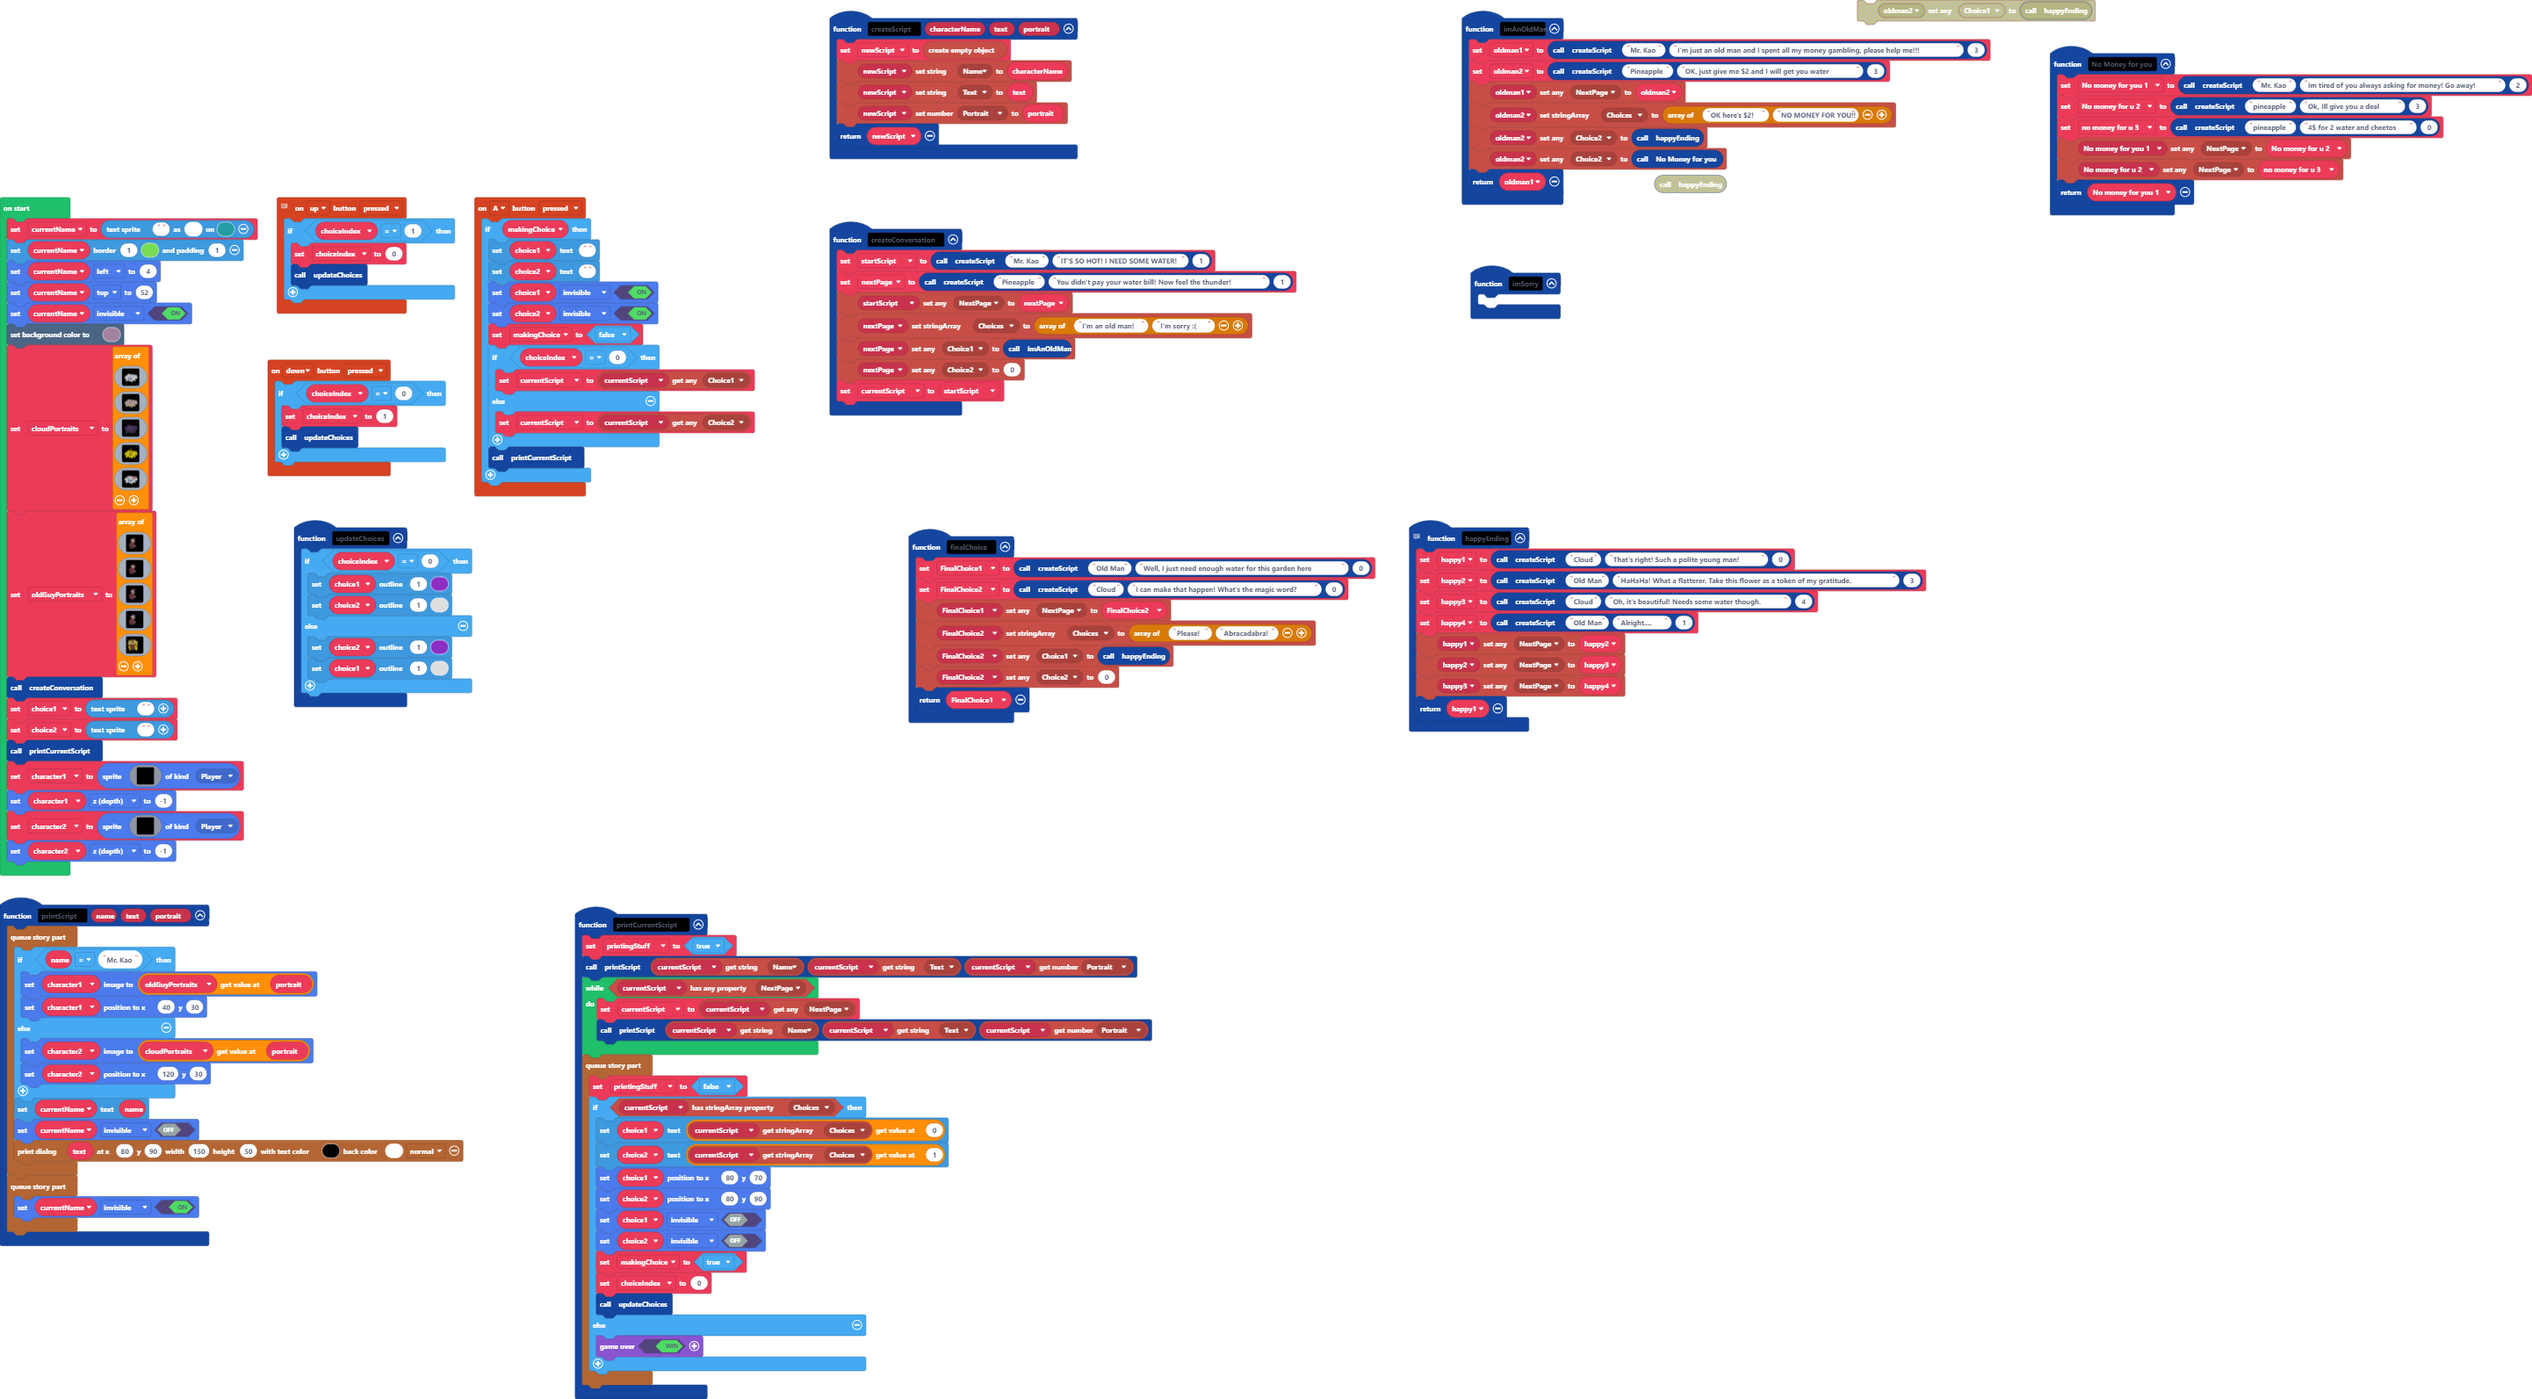
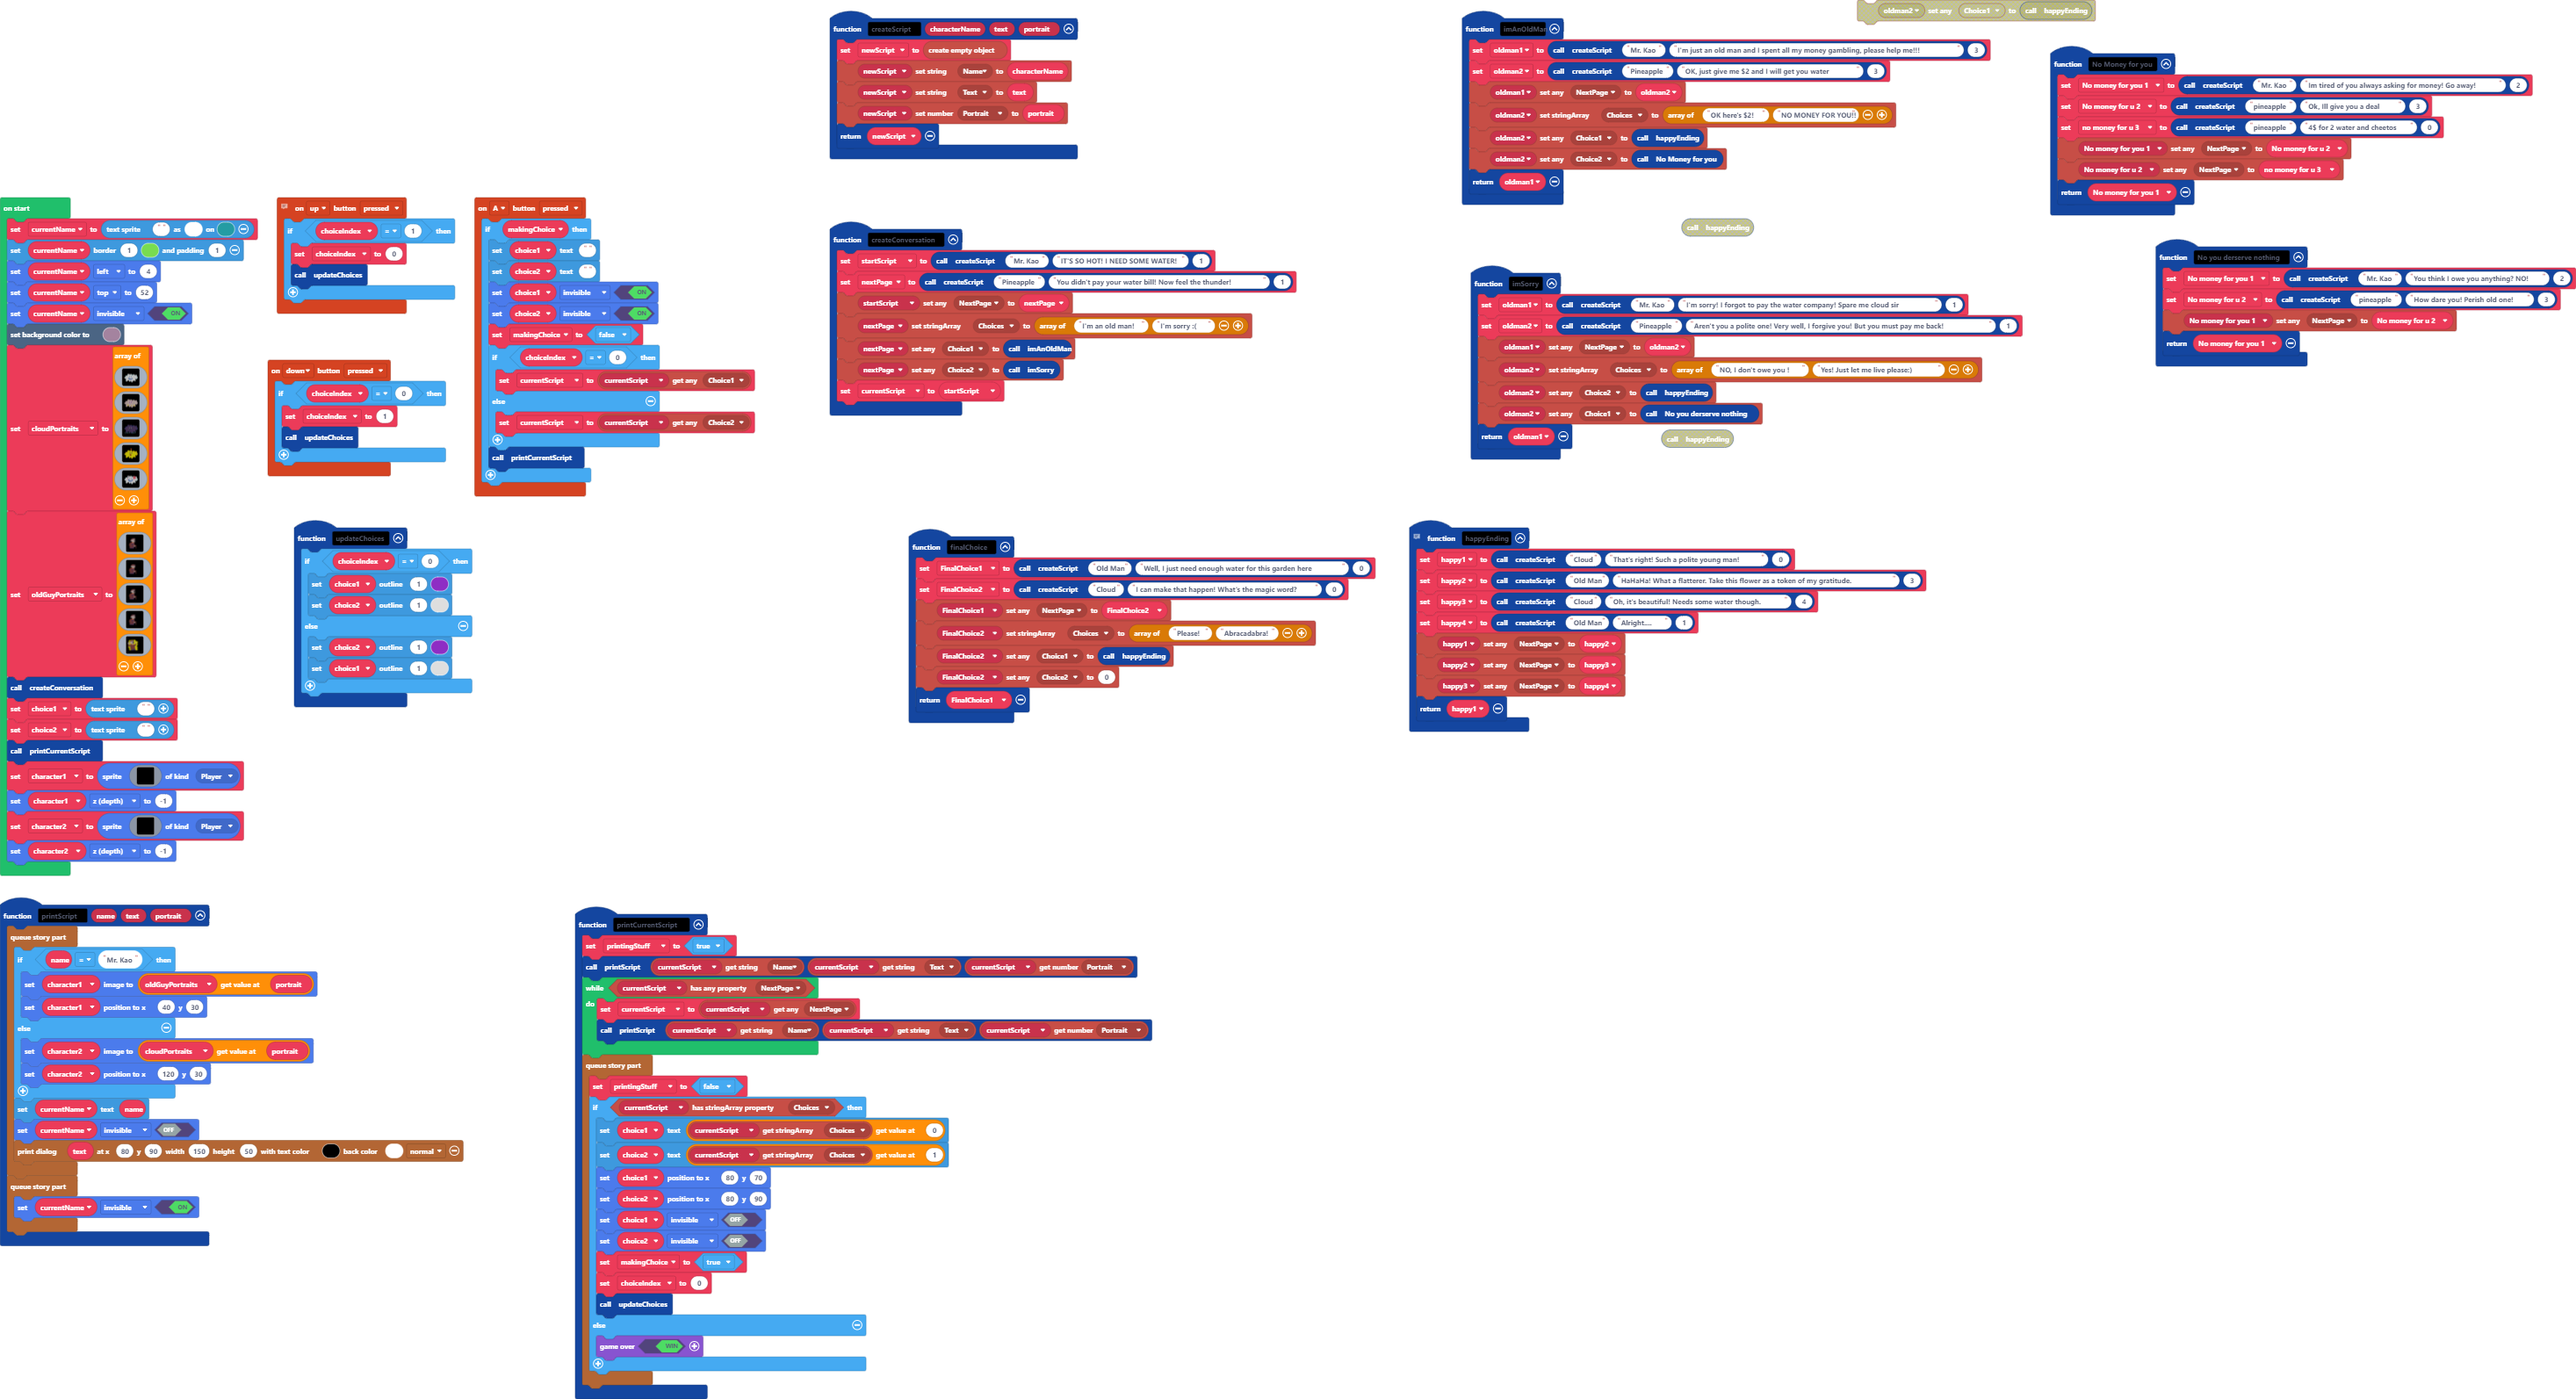
finished im sorry

diff --git a/main.ts b/main.ts
@@ -44,7 +44,13 @@ function happyEnding () {
     return happy1
 }
 function imSorry () {
-	
+    oldman1 = createScript("Mr. Kao", "I'm sorry! I forgot to pay the water company! Spare me cloud sir", 1)
+    oldman2 = createScript("Pineapple", "Aren't you a polite one! Very well, I forgive you! But you must pay me back!", 1)
+    blockObject.setAnyProperty(oldman1, AnyProp.NextPage, oldman2)
+    blockObject.setStringArrayProperty(oldman2, StrArrayProp.Choices, ["NO, I don't owe you !", "Yes! Just let me live please:)"])
+    blockObject.setAnyProperty(oldman2, AnyProp.Choice2, happyEnding())
+    blockObject.setAnyProperty(oldman2, AnyProp.Choice1, No_you_derserve_nothing())
+    return oldman1
 }
 // microsoft/arcade-block-objects
 // 
@@ -61,7 +67,7 @@ function createConversation () {
     blockObject.setAnyProperty(startScript, AnyProp.NextPage, nextPage)
     blockObject.setStringArrayProperty(nextPage, StrArrayProp.Choices, ["I'm an old man!", "I'm sorry :("])
     blockObject.setAnyProperty(nextPage, AnyProp.Choice1, imAnOldMan())
-    blockObject.setAnyProperty(nextPage, AnyProp.Choice2, 0)
+    blockObject.setAnyProperty(nextPage, AnyProp.Choice2, imSorry())
     currentScript = startScript
 }
 function printScript (name: string, text: string, portrait: number) {
@@ -151,7 +157,7 @@ function imAnOldMan () {
     oldman2 = createScript("Pineapple", "OK, just give me $2 and I will get you water", 3)
     blockObject.setAnyProperty(oldman1, AnyProp.NextPage, oldman2)
     blockObject.setStringArrayProperty(oldman2, StrArrayProp.Choices, ["OK here's $2!", "NO MONEY FOR YOU!!"])
-    blockObject.setAnyProperty(oldman2, AnyProp.Choice2, happyEnding())
+    blockObject.setAnyProperty(oldman2, AnyProp.Choice1, happyEnding())
     blockObject.setAnyProperty(oldman2, AnyProp.Choice2, No_Money_for_you())
     return oldman1
 }
@@ -161,6 +167,12 @@ controller.down.onEvent(ControllerButtonEvent.Pressed, function () {
         updateChoices()
     }
 })
+function No_you_derserve_nothing () {
+    No_money_for_you_1 = createScript("Mr. Kao", "You think I owe you anything? NO!", 2)
+    No_money_for_u_2 = createScript("pineapple", "How dare you! Perish old one!", 3)
+    blockObject.setAnyProperty(No_money_for_you_1, AnyProp.NextPage, No_money_for_u_2)
+    return No_money_for_you_1
+}
 function createScript (characterName: string, text: string, portrait: number) {
     newScript = blockObject.create()
     blockObject.setStringProperty(newScript, StrProp.Name, characterName)
@@ -169,8 +181,6 @@ function createScript (characterName: string, text: string, portrait: number) {
     return newScript
 }
 let newScript: blockObject.BlockObject = null
-let oldman2: blockObject.BlockObject = null
-let oldman1: blockObject.BlockObject = null
 let printingStuff = false
 let FinalChoice2: blockObject.BlockObject = null
 let FinalChoice1: blockObject.BlockObject = null
@@ -182,6 +192,8 @@ let currentScript: blockObject.BlockObject = null
 let nextPage: blockObject.BlockObject = null
 let startScript: blockObject.BlockObject = null
 let choiceIndex = 0
+let oldman2: blockObject.BlockObject = null
+let oldman1: blockObject.BlockObject = null
 let happy4: blockObject.BlockObject = null
 let happy3: blockObject.BlockObject = null
 let happy2: blockObject.BlockObject = null
